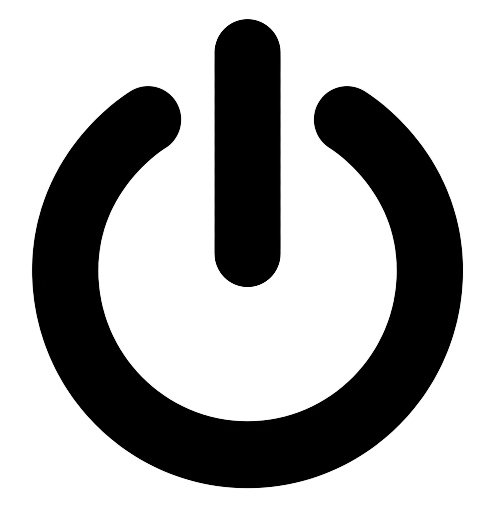
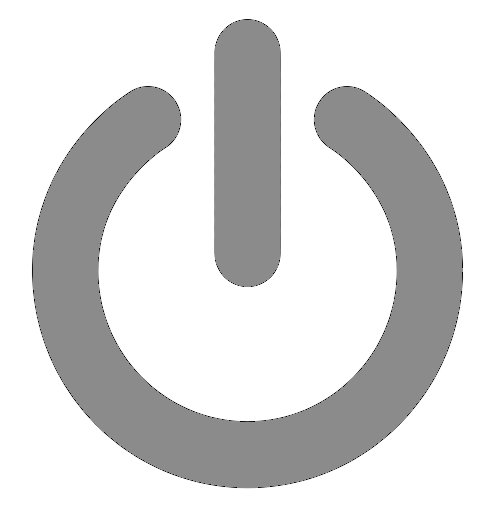
첫 페이지 완성
그림들 색상 조정과 HTML 스크롤바 안 생기도록 크기 조정 그리고 메인 페이지 완성 또한 HTML 슬라이더를 조정하는 방법이
담긴 Slider.html 추가

diff --git a/popup.html b/popup.html
@@ -7,7 +7,7 @@
   </head>
 
   <body>
-    <div id="Hb-head" style="background-color:#99D9EA; width:450px;height:60px">
+    <div id="Hb-head" style="background-color:#556FB5;width:420px;height:60px">
       <div class="head-1" style="display:none;width:50px;height:50px;float:left;margin:5px 0px 0px 5px">
         <img src="back.png" width="50px" height="50px">
       </div>
@@ -17,36 +17,43 @@
         </a>
       </div>
     </div>
-    <div id="Hb-body" style="background-color:#FFFFFF;width:450px;height:540px">
-      <div class="body-graph" style="background-color:#FFFFEF;width:400px;height:200px;margin:25px 0px 0px 25px">
+    <div id="Hb-body" style="width:420px;height:480px">
+      <div class="body-graph" style="width:400px;height:150px;margin:10px 0px 0px 10px">
       </div>
-      <div class="body-percent" style="background-color:#FFFFDF;width:120px;height:100px;margin:25px 0px 0px 25px;float:left;text-align:center">
+      <div class="body-percent" style="width:120px;height:50px;margin:25px 0px 0px 25px;float:left;text-align:right">
        <p>
-         <font size="15">
+         <font size="5">
            %
          </font>
         </p>
       </div>
-      <div class="body-number" style="background-color:#FFFFCF;width:200px;height:100px;margin:25px 25px 0px 0px;float:right;text-align:center">
-       로딩된 이미지 수 : <br>
-       필터링 된 이미지 수 : 
+      <div class="body-number" style="width:210px;height:50px;margin:25px 25px 0px 0px;float:right;text-align:left">
+       <p>
+         <font size="2.5">
+		   로딩된 이미지 수 : <br>
+		   필터링 된 이미지 수 : 
+         </font>
+        </p>
       </div>
-      <div class="body-power" style="background-color:#FFFFBF;width:200px;height:250px;margin:150px 0px 0px 125px">
-		<div id="plugin_on" style="display: none;">
-			<img src="working.png" width="200px" height="200px">
-			<div class="working_ment" style="background-color:#FFFFCF;width:200px;height:50px;float:right;text-align:center">
-				후방 주의 플러그인이 <br>
-				현재 작동 중입니다
-			</div>
+	<div id="plugin_on" style="display: none">
+		<div class="body-power" style="width:120px;height:120px;margin:100px 0px 0px 150px">
+			<img src="working.png" width="120px" height="120px">
 		</div>
-		<div id="plugin_off" style="display: block;">
-			<img src="sleeping.png" width="200px" height="200px">
-			<div class="working_ment" style="background-color:#FFFFCF;width:200px;height:50px;float:right;text-align:center">
-				후방 주의 플러그인이  <br>
-				현재 비활성화 되어 있습니다
-			</div>
+		<div class="working_ment" style="text-align:center">
+			후방 주의 플러그인이 현재 작동 중입니다
 		</div>
-      </div>
+	</div>
+	<div id="plugin_off" style="display: block">
+		<div class="body-power" style=";width:120px;height:120px;margin:100px 0px 0px 150px">
+			<img src="sleeping.png" width="120px" height="120px">
+		</div>
+		<div class="sleeping_ment" style="text-align:center">
+			후방 주의 플러그인이 현재 비활성화 되어 있습니다
+		</div>
+	</div>
+	<div id="gopopup0-1" style="display: block;width:120px;height:60px;margin:20px 0px 0px 150px">
+		<img src="settings.png" width="120px" height="60px">
+	</div>
     </div>
   </body>
 

diff --git a/Slider.html b/Slider.html
@@ -1,0 +1,25 @@
+<!DOCTYPE html>
+<html>
+<head>
+    <title></title>
+
+    <script src="http://code.jquery.com/jquery-1.9.1.min.js"></script>
+    <script>
+        $(function() {
+            $('#test').on('change',function() {
+                $('#log').text( $(this).val() );
+            });
+        });
+    </script>
+
+</head>
+<body>
+
+<div>
+    <input id="test" type="range" min="0" max="100" value="50"/>
+</div>
+
+<div id="log"></div>
+
+</body>
+</html>
